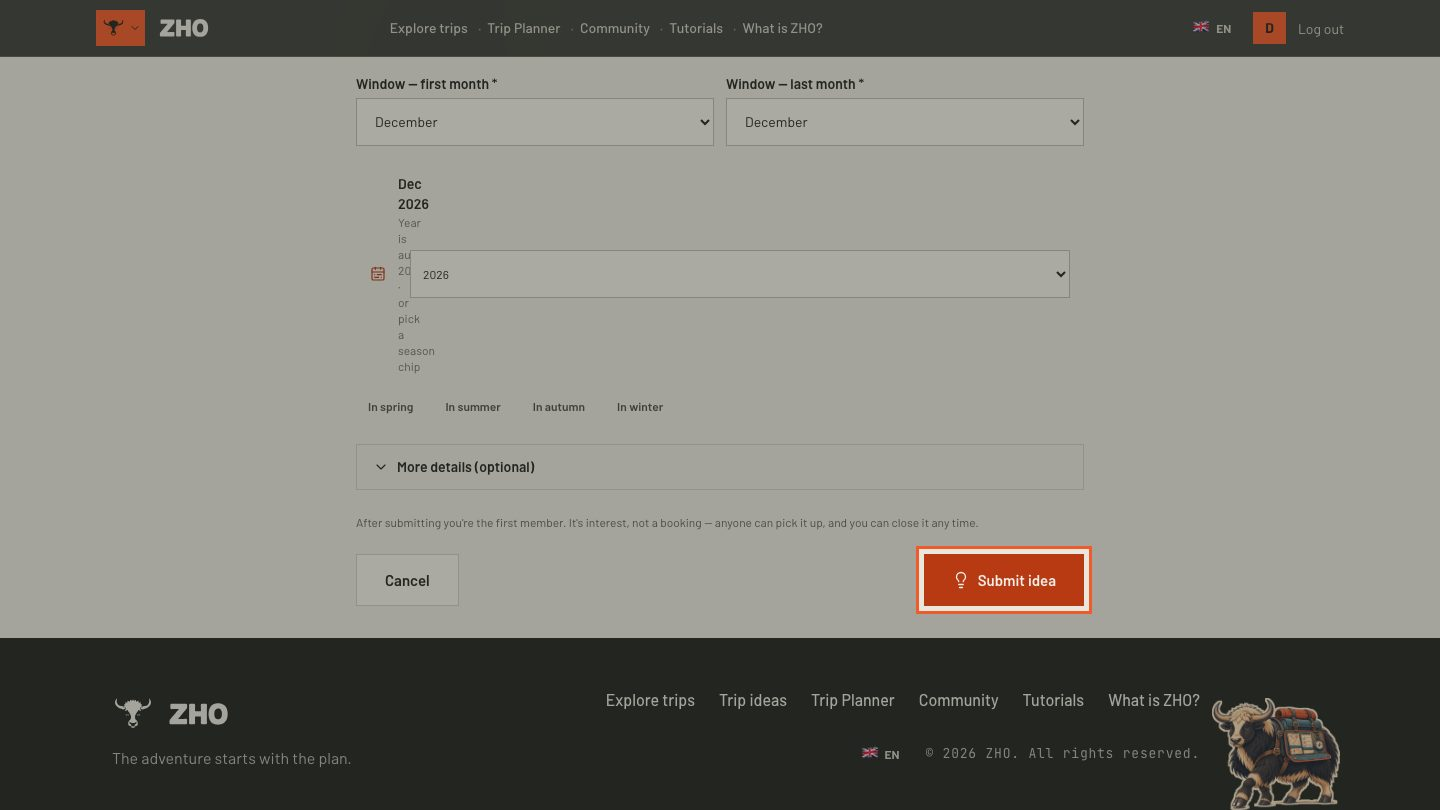
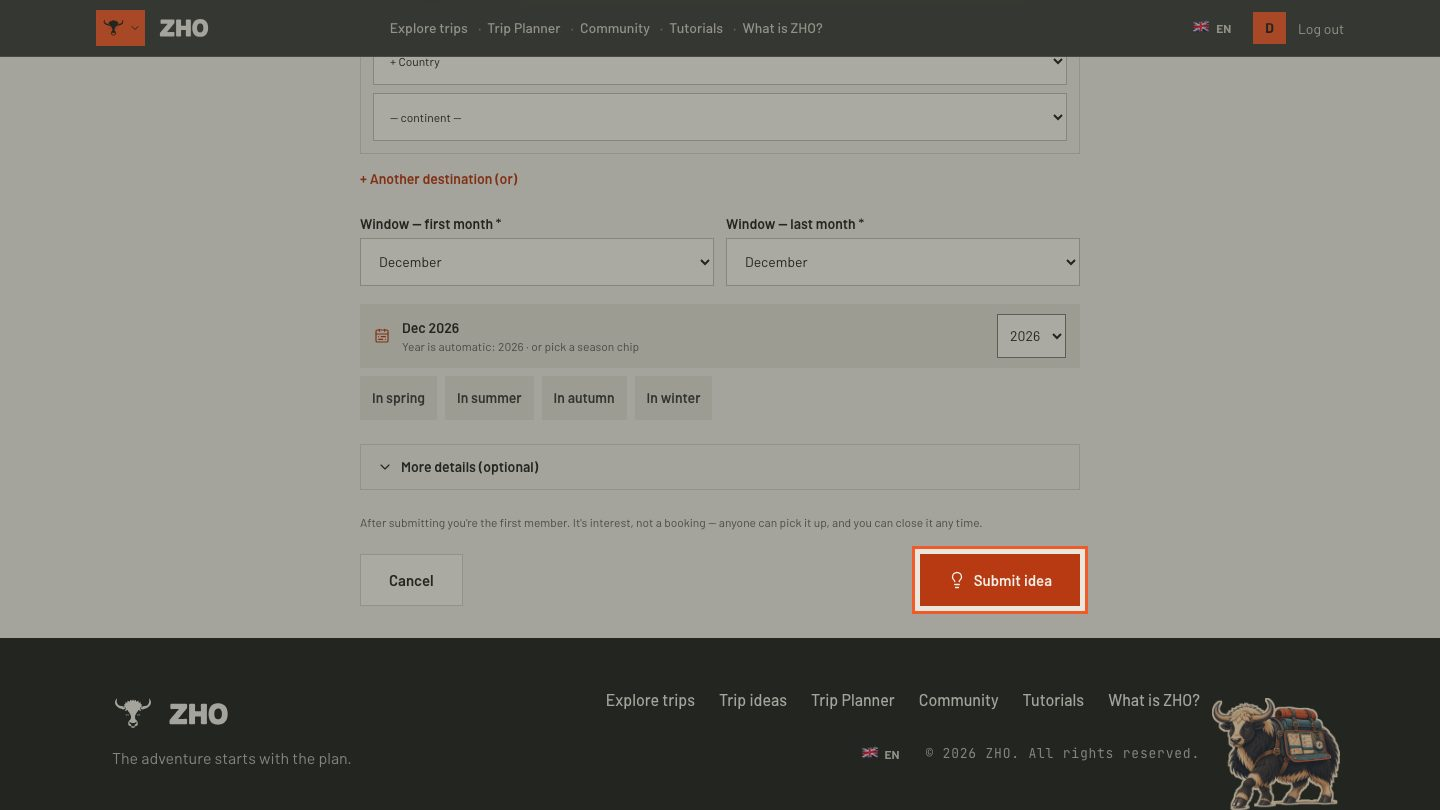
fix(M22): ötlet-képernyők apró eltérései, az időablak tördelése, kék/lila a témakészletből (#130)
* fix(M22): az ötlet-képernyők apró eltérései és a kék/lila kivezetése a témakészletből

**Ötlet adatlapja** — a heróban második elsődleges gomb volt („Csatlakozom”), miközben az
oldalsó csatlakozás-doboz egyszerre látszik vele. A túra adatlapján ugyanez a szabály már
ki van mondva (Norbert, 2026-11-02): nincs gomb a heróban. Levéve; az állapot (szándék vagy
lezárt) mostantól mindig chipként áll a kategória-chip mellett, nem csak lezárt ötletnél.

**Saját ötleteim, beküldő űrlap** — a konténerük keskenyebb volt és más bal széllel indult,
mint a többi belső oldal; igazítva a fejléchez és a Túráimhoz.

**Beküldő űrlap, időablak** — az évválasztó az `input-trevu` segédosztályt használta, amiben
`w-full` van: a sorban kiszorította a súgószöveget, az pedig egy ~40 px-es oszlopba tördelve
a legördülő mögé csúszott. Saját, tokenes osztályokat kapott, a sáv törhet, a szöveg kap
minimális szélességet. A négy évszak-chip 44 px-es érintési célra nőtt, és szemantikus
tokenekből színeződik.

**Témakészlet** — a B palettájában nincs kék és lila (márkakézikönyv v3, 4.), a `terep`
készlet mégis kiadta a `--color-info: #3B82F6` és a `--dusk-violet: #8B5CF6` értéket, mert
csak a palettaosztályokat kötötte át. Most a meleg semleges skálára esnek; a
`themes.generated.css` újragenerálva (`pnpm --filter @uat/web theme:css`).

Claude-Session: https://claude.ai/code/session_01RFjKgE4Xri8gW7W6GqsuNW

* chore(M211): a négy érintett útmutató képanyaga újrafelvéve (hu + en)
[…]

diff --git a/apps/web/components/ideas/IdeaForm.tsx b/apps/web/components/ideas/IdeaForm.tsx
@@ -202,19 +202,26 @@ export function IdeaForm({ mode, initial, categories, countries, currencies }: P
             <select value={em} onChange={(e) => { setEm(Number(e.target.value)); setPeriodKey(null); setYearOverride(null); }} className={`${inputCls} mt-1 font-normal`}>{MONTHS.map((m) => <option key={m} value={m}>{monthName(m, locale)}</option>)}</select>
           </label>
         </div>
-        <div className="mt-3 flex items-center gap-3 rounded-xl bg-navy-50 px-3.5 py-2.5" data-testid="idea-window-hint">
-          <Icon name="calendar-range" size={16} className="shrink-0 text-trevu-700" aria-hidden />
-          <div className="min-w-0 flex-1">
-            <p className="text-sm font-semibold text-navy-900">{formatWindow({ startMonth: sm, endMonth: em, year }, locale)}</p>
-            <p className="text-xs text-navy-400">{t("ideas.form.yearAuto", { year })} · {t("ideas.form.seasonChips")}</p>
+        {/* Az évválasztó nem `input-trevu`: az a segédosztály `w-full`, és a sorban kiszorítaná
+            a súgószöveget (a szöveg egy keskeny oszlopba tördelődött a legördülő mögé). */}
+        <div className="mt-3 flex flex-wrap items-center gap-3 rounded-trevu bg-ghost px-3.5 py-2.5" data-testid="idea-window-hint">
+          <Icon name="calendar-range" size={16} className="shrink-0 text-accent" aria-hidden />
+          <div className="min-w-[160px] flex-1">
+            <p className="text-sm font-semibold text-ink">{formatWindow({ startMonth: sm, endMonth: em, year }, locale)}</p>
+            <p className="text-xs text-ink-muted">{t("ideas.form.yearAuto", { year })} · {t("ideas.form.seasonChips")}</p>
           </div>
-          <select aria-label={t("ideas.form.yearChange")} value={year} onChange={(e) => setYearOverride(Number(e.target.value))} className="input-trevu px-2 py-1.5 text-xs">
+          <select
+            aria-label={t("ideas.form.yearChange")}
+            value={year}
+            onChange={(e) => setYearOverride(Number(e.target.value))}
+            className="h-11 w-auto shrink-0 rounded-trevu border-[1.5px] border-line-strong bg-surface px-2 text-sm text-ink outline-hidden focus:border-accent"
+          >
             {[now.getFullYear(), now.getFullYear() + 1, now.getFullYear() + 2].map((y) => <option key={y} value={y}>{y}</option>)}
           </select>
         </div>
         <div className="mt-2 flex flex-wrap gap-2">
           {(Object.keys(SEASON_MONTHS) as (keyof typeof SEASON_MONTHS)[]).map((s) => (
-            <button key={s} type="button" aria-pressed={periodKey === s} onClick={() => { const [a, b] = SEASON_MONTHS[s]; setSm(a); setEm(b); setPeriodKey(s); setYearOverride(null); }} className={`rounded-chip px-3 py-1.5 text-xs font-semibold ${periodKey === s ? "bg-trevu-50 text-trevu-700" : "bg-navy-50 text-navy-600"}`}>{t(`ideas.period.${s}`)}</button>
+            <button key={s} type="button" aria-pressed={periodKey === s} onClick={() => { const [a, b] = SEASON_MONTHS[s]; setSm(a); setEm(b); setPeriodKey(s); setYearOverride(null); }} className={`inline-flex min-h-11 items-center rounded-chip px-3 text-sm font-semibold ${periodKey === s ? "bg-accent text-accent-on" : "bg-ghost text-ink-secondary hover:bg-line"}`}>{t(`ideas.period.${s}`)}</button>
           ))}
         </div>
         {windowErr && <p role="alert" className="mt-1 text-xs text-(--color-danger)">{t(`ideas.errors.${windowErr}`)}</p>}

diff --git a/apps/web/app/(app)/ideas/[slug]/page.tsx b/apps/web/app/(app)/ideas/[slug]/page.tsx
@@ -88,7 +88,7 @@ export default async function IdeaDetailPage({ params }: Props) {
             <div className="flex flex-wrap items-center gap-2">
               {chip && <span className={`inline-flex w-fit items-center gap-1.5 rounded-chip bg-glass px-2.5 py-1 text-xs font-semibold backdrop-blur-sm ${CATEGORY_TEXT[chip.token]}`}><Icon name={chip.icon} size={14} />{chip.label}</span>}
               {underReview && <span className="inline-flex items-center gap-1.5 rounded-chip bg-(--color-warning-subtle) px-2.5 py-1 text-xs font-semibold text-(--color-warning-text)"><Icon name="flag" size={12} />{t("ideas.detail.underReview")}</span>}
-              {!joinable && !underReview && <span className="inline-flex items-center gap-1.5 rounded-chip bg-glass px-2.5 py-1 text-xs font-semibold text-ink"><Icon name="x-circle" size={12} />{st.label}</span>}
+              {!underReview && <span className="inline-flex items-center gap-1.5 rounded-chip bg-glass px-2.5 py-1 text-xs font-semibold text-ink backdrop-blur-sm"><Icon name={joinable ? "lightbulb" : "x-circle"} size={12} />{st.label}</span>}
             </div>
             <div className="flex flex-wrap items-center gap-x-4 gap-y-2">
               <h1 className="text-[30px] font-extrabold leading-[1.1] tracking-[-0.02em] text-ink text-balance md:text-hero-display">{idea.title}</h1>
@@ -101,10 +101,9 @@ export default async function IdeaDetailPage({ params }: Props) {
               <span className="inline-flex items-center gap-1.5"><Icon name="users" size={16} className="text-ink-secondary" />{membersText(idea, tr)}</span>
             </p>
           </div>
-          <div className="hidden flex-col items-end gap-2.5 md:flex">
-            <span className="text-lg font-semibold text-ink">{st.label}</span>
-            <div className="w-56"><IdeaActions ideaId={idea.id} slug={idea.slug} joinable={joinable} isOwner={isOwner} userId={rel.userId} member={rel.member} offered={rel.offered} reported={rel.reported} windowMonths={months} layout="sticky" /></div>
-          </div>
+          {/* Nincs gomb a heróban: az oldalsó csatlakozás-doboz egyszerre látszik vele (Norbert, 2026-11-02 —
+              ugyanez a szabály a túra adatlapján). Mobilon és tableten a ragadós sáv mutatja. Az állapot a
+              fenti chipsorban áll. */}
         </div>
       </section>
 

diff --git a/apps/web/app/(app)/ideas/mine/page.tsx b/apps/web/app/(app)/ideas/mine/page.tsx
@@ -35,7 +35,8 @@ export default async function MyIdeasPage({ searchParams }: Props) {
   return (
     <main className="min-h-screen bg-slate-50">
       <div data-surface="night" className="contents"><AppHeader user={{ email: user.email ?? "", displayName: user.user_metadata?.full_name }} /></div>
-      <div className="mx-auto max-w-6xl px-5 py-8">
+      {/* A konténer a többi belső oldaléval egyezik: ugyanaz a bal szél, mint a fejlécben és a Túráimon. */}
+      <div className="mx-auto max-w-7xl px-4 py-8 md:px-[120px]">
         <div className="flex flex-wrap items-center justify-between gap-3">
           <h1 className="text-3xl font-extrabold text-navy-900">{t("ideas.mine.title")}</h1>
           <Link href="/ideas/new" className="inline-flex h-10 items-center gap-2 rounded-trevu bg-trevu-600 px-4 text-sm font-semibold text-white"><Icon name="lightbulb" size={16} aria-hidden />{t("ideas.board.newIdea")}</Link>

diff --git a/apps/web/app/(app)/ideas/new/page.tsx b/apps/web/app/(app)/ideas/new/page.tsx
@@ -32,7 +32,7 @@ export default async function NewIdeaPage({ searchParams }: Props) {
   return (
     <main className="min-h-screen bg-slate-50">
       <div data-surface="night" className="contents"><AppHeader user={{ email: user.email ?? "", displayName: user.user_metadata?.full_name }} /></div>
-      <div className="mx-auto max-w-3xl px-5 py-8">
+      <div className="mx-auto max-w-3xl px-4 py-8 md:px-6">
         <span className="inline-flex items-center gap-1.5 rounded-chip bg-trevu-50 px-2.5 py-1 text-xs font-semibold text-trevu-700"><Icon name="lightbulb" size={14} aria-hidden />{t("ideas.form.badge")}</span>
         <h1 className="mt-3 text-3xl font-extrabold text-navy-900">{t("ideas.form.newTitle")}</h1>
         <p className="mt-1 mb-6 text-sm text-navy-500">{t("ideas.form.newSubtitle")}</p>

diff --git a/apps/web/styles/themes.generated.css b/apps/web/styles/themes.generated.css
@@ -21,7 +21,7 @@
   --sunrise-coral: #A3271C;
   --trail-sage: #3D6A33;
   --golden-hour: #E6C35A;
-  --dusk-violet: #8B5CF6;
+  --dusk-violet: #5A5D55;
   --radius-s: 0px;
   --radius-m: 0px;
   --radius-l: 0px;
@@ -56,10 +56,10 @@
   --color-success-text: #3D6A33;
   --color-danger-subtle: #F9E4E1;
   --color-warning-subtle: #F6EFD6;
-  --color-info-subtle: #DBEAFE;
-  --color-special-subtle: #EDE9FE;
+  --color-info-subtle: #DEDCD1;
+  --color-special-subtle: #DEDCD1;
   --color-navy-800: #2C302A;
-  --color-info: #3B82F6;
+  --color-info: #5A5D55;
   --color-warning: #B08A10;
   --gradient-trevu: linear-gradient(#F15B2A, #F15B2A);
   --gradient-dawn: linear-gradient(#F15B2A, #F15B2A);

diff --git a/packages/config/src/theme/terep.ts b/packages/config/src/theme/terep.ts
@@ -144,6 +144,13 @@ export const terep: ThemeDefinition = {
     "color-navy-800": SZEN_EMELT,
     "color-warning": "#B08A10",
     "color-warning-text": "#7A5E00",
+    // A B palettájában nincs kék és lila (v3, 4.): a tájékoztató és a „special” szerep a meleg
+    // semleges skálára esik, ahogy a kék/lila palettaosztályok is. Enélkül a stíluslap kék
+    // `--color-info`-t (#3B82F6) és lila `--dusk-violet`-et (#8B5CF6) adna ki.
+    "dusk-violet": KO,
+    "color-info": KO,
+    "color-info-subtle": "#DEDCD1",
+    "color-special-subtle": "#DEDCD1",
     "dark-bg": SZEN,
     "dark-surface": SZEN_EMELT,
     "dark-border": KO,
